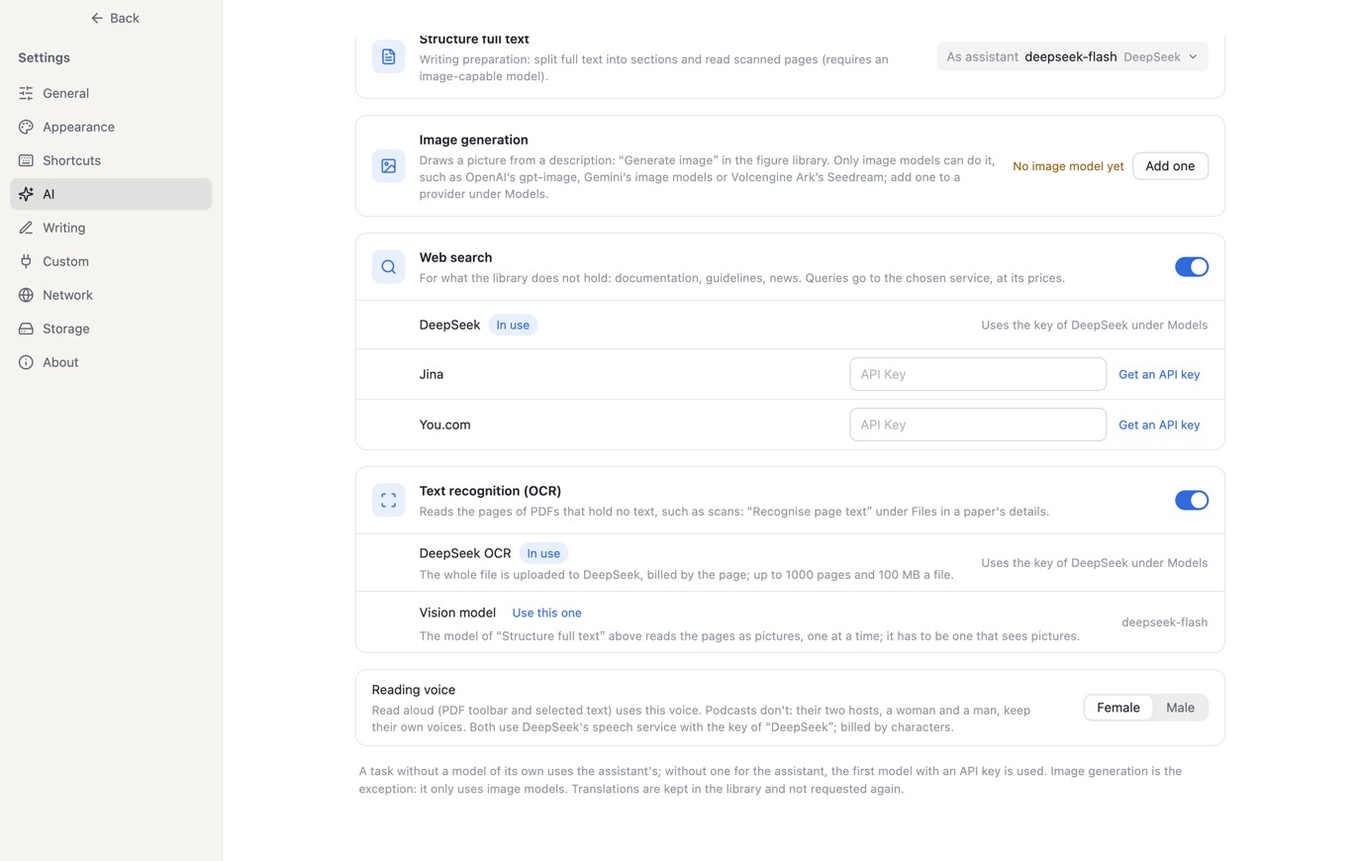
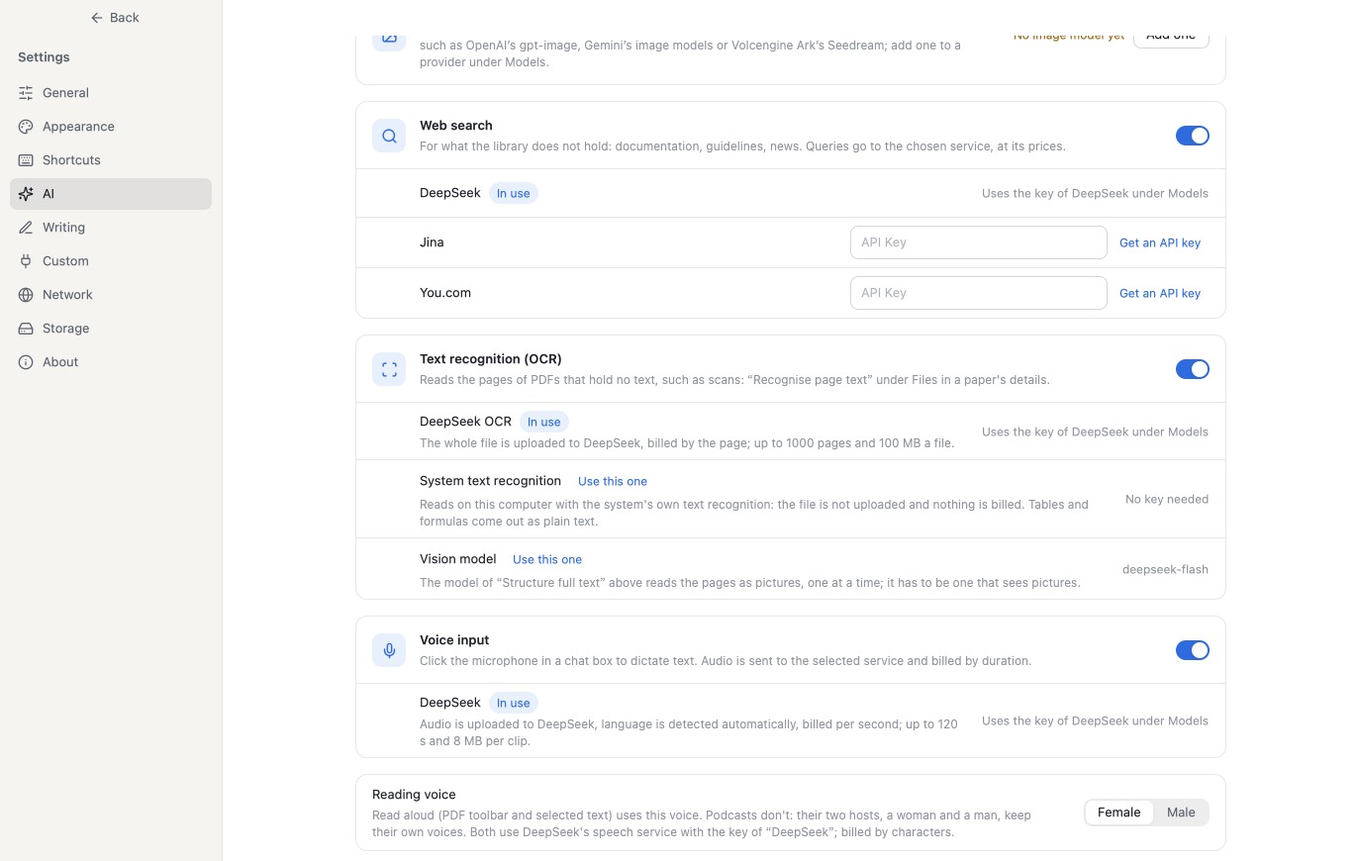
tutorials: what v0.22.0 brought
几个课题一起推进 gets §7 复制过去 and §8 追加还是覆盖, from a run on v0.22.0
with both libraries fetched anew from PubMed (four figures, Chinese and English).
搬进来 §8 describes 系统文字识别 and the order the engines are tried in, with
figure 15 retaken. 向整个文献库提问 §2 gets a tip on 思考强度 and 语音输入.

diff --git a/site/en/tutorials/libraries.html b/site/en/tutorials/libraries.html
@@ -38,11 +38,11 @@
   <header class="doc-head">
     <p class="kicker">Tutorial 18 · Follow up</p>
     <h1>Several topics at once: work in the background, ask across libraries</h1>
-    <p class="lead">You have more than one topic on the go: plant single-cell transcriptomics and root hair development, each with a library of its own. In this tutorial one library's assistant screens its papers in the background while you work in the other, and it is done when you come back. Then, on the home page, you ask the assistant a question that spans both libraries: it looks in both, every source of its answer says which library it comes from, and a click takes you to that paper in that library.</p>
+    <p class="lead">You have more than one topic on the go: plant single-cell transcriptomics and root hair development, each with a library of its own. In this tutorial one library's assistant screens its papers in the background while you work in the other, and it is done when you come back. Then, on the home page, you ask the assistant a question that spans both libraries: it looks in both, every source of its answer says which library it comes from, and a click takes you to that paper in that library. Last, you copy a paper both topics can use into the other library, and choose between appending and overwriting where that library already has the same paper.</p>
     <dl class="facts">
-      <div><dt>Scenario</dt><dd>“<span lang="zh-CN">植物单细胞转录组</span>” (plant single-cell transcriptomics) has 40 papers waiting to be screened, “<span lang="zh-CN">根毛发育</span>” (root hair development) 30 papers just brought in from PubMed; do the two meet anywhere on root hairs?</dd></div>
+      <div><dt>Scenario</dt><dd>“<span lang="zh-CN">植物单细胞转录组</span>” (plant single-cell transcriptomics) has 40 papers waiting to be screened, “<span lang="zh-CN">根毛发育</span>” (root hair development) 30 papers just brought in from PubMed; do the two meet anywhere on root hairs? A root atlas on the single-cell side would serve the root hair side too.</dd></div>
       <div><dt>Needs</dt><dd>Two libraries, and a model provider set up in “Settings › AI”.</dd></div>
-      <div><dt>Time</dt><dd>About 10 minutes, of which screening 40 papers took a little over a minute in the background.</dd></div>
+      <div><dt>Time</dt><dd>About 15 minutes, of which screening 40 papers took a little over a minute in the background.</dd></div>
     </dl>
   </header>
 
@@ -56,6 +56,8 @@
         <li><a href="#s4">Done: a line at the top of the window</a></li>
         <li><a href="#s5">Back home, ask both libraries</a></li>
         <li><a href="#s6">Sources that name their library</a></li>
+        <li><a href="#s7">One paper for both: copy it over</a></li>
+        <li><a href="#s8">Already there: append or overwrite</a></li>
         <li class="plain"><a href="#recap">Recap</a></li>
       </ol>
     </nav>
@@ -139,6 +141,51 @@
         <aside class="note warn"><b>Note</b>In a conversation of the home page, the other libraries are read-only: the assistant can list papers, search and read full texts and read marks, but not add tags, change a status or import papers; open that library to change it. The “Assistant” inside a library still keeps to that library.</aside>
       </section>
 
+      <section id="s7">
+        <h2><i>7</i>One paper for both: copy it over</h2>
+        <p>The answer in the last section said that “<span lang="zh-CN">根毛发育</span>” holds no single-cell study. That gap can be filled from the other library. “<span lang="zh-CN">植物单细胞转录组</span>” has a single-nucleus atlas of Tartary buckwheat roots (Hou et al., 2025, International journal of biological macromolecules), whose abstract says it maps the developmental trajectories of root hair and cortex cells. The single-cell topic still needs it, so it should not be moved; copy it, and both topics have it.</p>
+        <p>In “<span lang="zh-CN">植物单细胞转录组</span>”, type buckwheat into the search box above the list, and this paper is the only one left. Right-click it: in the last group of the menu, under “Move to library…”, is “Copy to library…” (it is also under the “⋯” at the end of the row of buttons on the details' “Info” tab).</p>
+
+        <figure class="shot">
+          <img src="../../img/en/t/libraries-08-copy-menu.jpg" width="1372" height="867" loading="lazy" alt="The library <span lang="zh-CN">植物单细胞转录组</span> with buckwheat in the search box; the list holds only Single - nucleus transcriptomics uncovers the spatiotemporal development of roots…, and its Info tab is open at the right. A context menu over its row: View information, Ask about paper; Favorites, Mark as Unread, Mark as Skimmed, Mark as Read closely; Edit title, information and fields…, Look up by DOI…, Add PDF or attachment…, Find open full text; Copy title, Copy DOI, Copy BibTeX, Open web page; and a last group of Move to library…, Copy to library… (under the pointer) and Move to trash.">
+          <figcaption><b>Figure 8.</b> A paper's context menu: “Copy to library…” comes under “Move to library…”.</figcaption>
+        </figure>
+
+        <p>The dialog is titled “Copy to library”. Under the paper's title are the libraries it can be copied to, here only “<span lang="zh-CN">根毛发育</span>” (30 papers), and a line saying that its PDFs, annotations, reading position and conversations about it are copied over, where its screening starts as pending, and that the paper here stays as it is. Click “Copy”.</p>
+
+        <figure class="shot">
+          <img src="../../img/en/t/libraries-09-copy-dialog.jpg" width="1372" height="867" loading="lazy" alt="The Copy to library dialog: the buckwheat paper's full title; a line saying its PDFs, annotations, reading position and conversations about it are copied over, where its screening starts as pending, and the paper here stays as it is; the row <span lang="zh-CN">根毛发育</span>, 30 papers, chosen; the buttons Cancel and Copy.">
+          <figcaption><b>Figure 9.</b> “Copy to library”: the paper here stays as it is, and the other library gets a copy.</figcaption>
+        </figure>
+
+        <p>The window does not move: it stays in “<span lang="zh-CN">植物单细胞转录组</span>”, the paper is still in the list, and the library still holds 40 papers. The top of the window says “Copied to “<span lang="zh-CN">根毛发育</span>”.”, with “Open” beside it to go and look. “<span lang="zh-CN">根毛发育</span>” now holds 31 papers, and the newcomer's screening is “Pending”: whether it belongs is judged again, for the root hair topic.</p>
+        <aside class="note"><b>Tip</b>After copying, the two are separate: an annotation added or a note changed on one side does not reach the other. When a paper belongs only to the new topic and the old library has no use for it, use “Move to library…”: the paper goes over with its PDFs and annotations, and the original stays in this library's trash. Since v0.22.0 the window stays where it is after a move too, so you can move the next paper right away.</aside>
+      </section>
+
+      <section id="s8">
+        <h2><i>8</i>Already there: append or overwrite</h2>
+        <p>Next you come across another paper about root hair cells: a multi-organ single-cell atlas of oak (Hui et al., 2026, PLoS genetics), in which QrIAA14 is enriched in root hair cells, the cells next to them and the root cap. Tag it and the buckwheat paper “<span lang="zh-CN">根毛</span>” (root hair), click that tag in the sidebar, and the list shows these two. Click the first, hold <kbd>⌘</kbd> (<kbd>Ctrl</kbd> on Windows) and click the second to select both; right-click, and the last group of the menu reads “Copy 2 papers to library…”.</p>
+        <p>Click it and choose “<span lang="zh-CN">根毛发育</span>”: a line in a warning colour appears in the dialog, saying that “<span lang="zh-CN">根毛发育</span>” already has 2 of them, with their titles. The buckwheat paper is the one copied in the last section; the oak paper was also fetched by “<span lang="zh-CN">根毛发育</span>”'s own search, so each library has a record of it. Two lines below say what each way does, and the buttons become “Cancel”, “Append” and “Overwrite”:</p>
+
+        <figure class="shot">
+          <img src="../../img/en/t/libraries-10-held.jpg" width="1372" height="867" loading="lazy" alt="The list of <span lang="zh-CN">植物单细胞转录组</span> narrowed to the tag <span lang="zh-CN">根毛</span>: two papers, both selected. The Copy to library dialog: “Multi-organ single-cell transcript…” (2 papers in all); a line saying their PDFs, annotations, reading positions and conversations are copied over, where their screening starts as pending, and the papers here stay as they are; the row <span lang="zh-CN">根毛发育</span>, 31 papers, chosen; a line in a warning colour saying <span lang="zh-CN">根毛发育</span> already has 2 of them, with their titles; two lines explaining Append and Overwrite; the buttons Cancel, Append and Overwrite, Overwrite being the main one.">
+          <figcaption><b>Figure 10.</b> The other library already has 2 of them: the dialog asks first whether to append or overwrite.</figcaption>
+        </figure>
+
+        <ul>
+          <li><strong>Append</strong>: everything already there stays; the tags, notes, PDFs and annotations from here are added, and empty details filled in.</li>
+          <li><strong>Overwrite</strong>: wherever both have something, this side wins, including the title and other details, notes, tags, reading state and annotations; what only that side has stays, and its screening is unchanged.</li>
+        </ul>
+        <p>Neither adds a paper to “<span lang="zh-CN">根毛发育</span>”. Here only the tag should go over, and nothing of the records there needs changing, so click “Append”. The default button is “Overwrite”, which <kbd>Enter</kbd> presses; appending takes a click. The top of the window says ““<span lang="zh-CN">根毛发育</span>” already had these 2 papers: their files and annotations were added to them.” Click “Open” beside it to go to “<span lang="zh-CN">根毛发育</span>”, and click “<span lang="zh-CN">根毛</span>” in the sidebar:</p>
+
+        <figure class="shot">
+          <img src="../../img/en/t/libraries-11-appended.jpg" width="1372" height="867" loading="lazy" alt="The library <span lang="zh-CN">根毛发育</span>, with Tags: <span lang="zh-CN">根毛</span> on the filter bar and two papers in the list: Multi-organ single-cell transcriptomic atlas identifi… (Hui, Wenkai et al. · PLoS genetics · #<span lang="zh-CN">根毛</span>) and Single - nucleus transcriptomics uncovers the spa… (Hou, Yukang et al. · #<span lang="zh-CN">根毛</span>), both Linked and Unread; the foot says Showing 2 / 31 papers. At the right, the buckwheat paper's Info tab: Unread, Pending, Linked, and #<span lang="zh-CN">根毛</span> under Tags.">
+          <figcaption><b>Figure 11.</b> After appending, both papers in “<span lang="zh-CN">根毛发育</span>” carry the tag, and their screening is still that library's own “Pending”.</figcaption>
+        </figure>
+
+        <p>The library still holds 31 papers; nothing was added. From here each library judges for itself whether to include them: a paper included for the single-cell topic may be left out for the root hair one.</p>
+      </section>
+
       <section id="recap" class="recap">
         <h2>Recap</h2>
         <ul>
@@ -146,6 +193,8 @@
           <li>The home page's card and the bottom of another library's sidebar say how far it is, and a click goes back; when it is done, the top of the window says so.</li>
           <li>A question across libraries is asked on the home page: click “Ask my libraries”, or just say “look in my libraries for …”.</li>
           <li>The source cards of the answer name each paper's library, and a click opens that paper there; the other libraries are read-only in that conversation.</li>
+          <li>A paper both topics can use: right-click, “Copy to library…”. The original stays as it is, the other library gets a copy whose screening starts at “Pending”, and from then on each side changes its own.</li>
+          <li>Where the other library already has the same paper, the dialog asks first: “Append” keeps what is there and adds what is here, “Overwrite” lets this side win wherever both have something; neither adds a paper.</li>
           <li>Next: write the screening suggestions in, see “Confirm the screening decisions” in <a href="start.html#s6">Start from a topic</a>.</li>
         </ul>
       </section>
@@ -170,7 +219,7 @@
       </ol>
     </div>
     <div class="colophon">
-      <p><b>About this tutorial.</b> The screenshots come from one real run in November 2026 on macOS with v0.19.0, with the English interface; the Chinese page shows a run of its own with the Chinese interface, whose numbers differ. Screening used GPT-6.1 Sol and the question Claude Sonnet 5.5, both through a local gateway; the 30 root hair papers were fetched from PubMed that day. A model judges and answers differently each time, so numbers and wording will differ when you follow along; the steps are the same.</p>
+      <p><b>About this tutorial.</b> The screenshots come from one real run in November 2026 on macOS with v0.19.0, with the English interface; the Chinese page shows a run of its own with the Chinese interface, whose numbers differ. Screening used GPT-6.1 Sol and the question Claude Sonnet 5.5, both through a local gateway; the 30 root hair papers were fetched from PubMed that day. Sections 7 and 8 come from another run, on November 28, 2026 with v0.22.0 and the English interface: both libraries were fetched anew from PubMed, 40 single-cell studies of plant roots and 30 root hair studies, so the lists differ from the earlier sections; no model was used in them. A model judges and answers differently each time, so numbers and wording will differ when you follow along; the steps are the same.</p>
       <p><b>The assistant can be wrong.</b> Its suggestions and answers need your confirmation; check key numbers and conclusions against the original.</p>
     </div>
   </div>

diff --git a/site/tutorials/libraries.html b/site/tutorials/libraries.html
@@ -38,11 +38,11 @@
   <header class="doc-head">
     <p class="kicker">教程 18　·　跟进</p>
     <h1>几个课题一起推进：后台运行与跨库提问</h1>
-    <p class="lead">手上不止一个课题：一个是植物单细胞转录组，一个是根毛发育，各有各的文献库。本篇让一个库的助手在后台逐篇筛选，你去另一个库做别的，回来时它已经做完；再回到首页问助手一个横跨两个库的问题，它到两个库里去查，回答的每条出处写明来自哪个库，点一下就到那个库里的那一篇。</p>
+    <p class="lead">手上不止一个课题：一个是植物单细胞转录组，一个是根毛发育，各有各的文献库。本篇让一个库的助手在后台逐篇筛选，你去另一个库做别的，回来时它已经做完；再回到首页问助手一个横跨两个库的问题，它到两个库里去查，回答的每条出处写明来自哪个库，点一下就到那个库里的那一篇。最后，把一篇两个课题都用得上的文献复制一份过去；那边已经有同一篇时，选追加还是覆盖。</p>
     <dl class="facts">
-      <div><dt>场景</dt><dd>「植物单细胞转录组」40 篇等着筛选，「根毛发育」30 篇刚从 PubMed 检索进来；想知道两边在根毛上有没有交集。</dd></div>
+      <div><dt>场景</dt><dd>「植物单细胞转录组」40 篇等着筛选，「根毛发育」30 篇刚从 PubMed 检索进来；想知道两边在根毛上有没有交集；单细胞那边的根图谱，根毛这边也想用。</dd></div>
       <div><dt>需要</dt><dd>两个文献库，一个在「设置 › AI」里配置好的模型服务。</dd></div>
-      <div><dt>用时</dt><dd>约 10 分钟，其中筛选 40 篇在后台用了一分多钟。</dd></div>
+      <div><dt>用时</dt><dd>约 15 分钟，其中筛选 40 篇在后台用了一分多钟。</dd></div>
     </dl>
   </header>
 
@@ -56,6 +56,8 @@
         <li><a href="#s4">做完了，窗口上方提示一句</a></li>
         <li><a href="#s5">回首页，问两个库</a></li>
         <li><a href="#s6">出处写明来自哪个库</a></li>
+        <li><a href="#s7">一篇两边都用得上：复制过去</a></li>
+        <li><a href="#s8">那边已经有了：追加还是覆盖</a></li>
         <li class="plain"><a href="#recap">回顾</a></li>
       </ol>
     </nav>
@@ -139,6 +141,51 @@
         <aside class="note warn"><b>注意</b>在首页的对话里，别的文献库是只读的：助手可以列文献、检索全文、读原文和标注，但不能加标签、改状态或导入文献；要改，请打开那个库再做。文献库里面的「助手」仍然只管自己这个库。</aside>
       </section>
 
+      <section id="s7">
+        <h2><i>7</i>一篇两边都用得上：复制过去</h2>
+        <p>上一节的回答说，「根毛发育」里没有单细胞研究。这一块可以从另一个库借。「植物单细胞转录组」里有一篇苦荞根的单细胞核图谱（Hou 等，2025，International journal of biological macromolecules），摘要说它画出了根毛和皮层细胞的发育轨迹。这篇在单细胞那边还要用，不能移走；复制一份过去，两个课题就都有它。</p>
+        <p>在「植物单细胞转录组」的列表上方搜索 buckwheat，列表里只剩这一篇。右键它，菜单的最后一组里，「移到文献库…」下面就是「复制到文献库…」（右边详情「信息」页那一行按钮末尾的「⋯」里也有）。</p>
+
+        <figure class="shot">
+          <img src="../img/t/libraries-08-copy-menu.jpg" width="1372" height="867" loading="lazy" alt="「植物单细胞转录组」文献库，搜索框里是 buckwheat，列表只剩 Single - nucleus transcriptomics uncovers the spatiotemporal development of roots… 一篇，右边是它的信息页。这一行上弹出右键菜单：查看信息、就这篇提问；收藏、标为未读、标为已浏览、标为已精读；编辑题目、信息与词条…、按 DOI 补全…、添加 PDF 或附件…、查找开放全文；复制题目、复制 DOI、复制 BibTeX、打开网页；最后一组是移到文献库…、复制到文献库…（指针停在这一项上）、移到回收站。">
+          <figcaption><b>图 8</b>　文献的右键菜单：「复制到文献库…」在「移到文献库…」下面。</figcaption>
+        </figure>
+
+        <p>对话框的标题是「复制到文献库」，下面是这篇的题目和可以复制去的文献库，这里只有「根毛发育」（30 篇）。说明写着：PDF、标注、读到的位置和关于它的对话都复制一份过去，在那边收录状态是待判断；这里的这条不变。点「复制过去」。</p>
+
+        <figure class="shot">
+          <img src="../img/t/libraries-09-copy-dialog.jpg" width="1372" height="867" loading="lazy" alt="「复制到文献库」对话框：苦荞那篇的完整题目；说明 PDF、标注、读到的位置和关于它的对话都复制一份过去，在那边收录状态是待判断，这里的这条不变；下面一行「根毛发育　30 篇」已选中；按钮是取消和复制过去。">
+          <figcaption><b>图 9</b>　「复制到文献库」：这里的这条不变，那边多一份。</figcaption>
+        </figure>
+
+        <p>窗口没有动，还停在「植物单细胞转录组」，这篇也还在列表里，库里仍是 40 篇。窗口上方提示「已复制到「根毛发育」。」，旁边的「打开」去那边看。「根毛发育」变成 31 篇，新来的这篇收录状态是「待判断」：收不收，要按根毛这个课题重新判断。</p>
+        <aside class="note"><b>提示</b>复制之后两边各是各的：在一边加的标注、改的笔记，不会同步到另一边。一篇文献只属于新课题、原来的库用不着了，就用「移到文献库…」：它连同 PDF 和标注搬过去，原来的条目留在本库的回收站里。从 v0.22.0 起，移完窗口也留在原处，好接着移下一篇。</aside>
+      </section>
+
+      <section id="s8">
+        <h2><i>8</i>那边已经有了：追加还是覆盖</h2>
+        <p>接着又翻到一篇讲根毛细胞的：栎树的多器官单细胞图谱（Hui 等，2026，PLoS genetics），其中 QrIAA14 富集在根毛、近根毛细胞和根冠里。给它和苦荞那篇都加上标签「根毛」，在侧栏点这个标签，列表里就是这两篇。点第一篇，按住 <kbd>⌘</kbd>（Windows 上是 <kbd>Ctrl</kbd>）点第二篇，两篇都选中；右键，菜单的最后一组变成「把 2 篇复制到文献库…」。</p>
+        <p>点它，选「根毛发育」，对话框里多出一段提醒色的字：「「根毛发育」里已有其中 2 篇」，后面是两篇的题目。苦荞那篇是上一节刚复制过去的；栎树那篇是「根毛发育」自己的检索式也取回了的，两个库各有一条。下面两行说明两种处理，按钮变成「取消」「追加」「覆盖」：</p>
+
+        <figure class="shot">
+          <img src="../img/t/libraries-10-held.jpg" width="1372" height="867" loading="lazy" alt="「植物单细胞转录组」的列表按标签「根毛」筛出两篇，都已选中。「复制到文献库」对话框：「Multi-organ single-cell transcript…」等 2 篇文献；说明 PDF、标注、读到的位置和各自的对话都复制一份过去，在那边收录状态是待判断，这里的条目不变；「根毛发育　31 篇」已选中；提醒色的一行：「根毛发育」里已有其中 2 篇，后面是两篇的题目；下面两行分别说明追加和覆盖；按钮是取消、追加和覆盖，覆盖是主按钮。">
+          <figcaption><b>图 10</b>　那边已有其中 2 篇：对话框先问追加还是覆盖。</figcaption>
+        </figure>
+
+        <ul>
+          <li><strong>追加</strong>：那边已有的都保留，这边的标签、笔记、PDF 和标注加上去，空着的信息补上。</li>
+          <li><strong>覆盖</strong>：两边都有的以这边为准，包括题目等信息、笔记、标签、阅读状态和标注；那边独有的保留，收录状态不变。</li>
+        </ul>
+        <p>两种都不会在「根毛发育」里多出一条。这里只想把标签带过去，那边的记录没有要改的，点「追加」。默认按钮是「覆盖」，按 <kbd>Enter</kbd> 就是它，要追加得点一下。窗口上方提示「「根毛发育」里已有这 2 篇：文件和标注并到了原有的条目上。」点旁边的「打开」去「根毛发育」，在侧栏点「根毛」：</p>
+
+        <figure class="shot">
+          <img src="../img/t/libraries-11-appended.jpg" width="1372" height="867" loading="lazy" alt="「根毛发育」文献库，筛选条上是「标签：根毛」，列表两篇：Multi-organ single-cell transcriptomic atlas identifies…（Hui, Wenkai 等 · PLoS genetics · #根毛）和 Single - nucleus transcriptomics uncovers the spatio…（Hou, Yukang 等 · #根毛），都是有链接、未读；底部写着显示 2 / 31 篇。右边是苦荞那篇的信息页：未读、待判断、有链接，标签一栏是 #根毛。">
+          <figcaption><b>图 11</b>　追加之后：两篇在「根毛发育」里都带上了「根毛」，收录状态还是那边的「待判断」。</figcaption>
+        </figure>
+
+        <p>库里仍是 31 篇，没有多出一条。以后两边各自判断收不收：一篇在单细胞课题里收录，在根毛课题里可以不收。</p>
+      </section>
+
       <section id="recap" class="recap">
         <h2>回顾</h2>
         <ul>
@@ -146,6 +193,8 @@
           <li>首页的卡片和别的库侧栏底部都写着它做到哪了，点一下回到那个库；做完时窗口上方提示一句。</li>
           <li>跨库的问题回首页问：点「问我的文献库」，或直接说「在我的文献库里找……」。</li>
           <li>回答的出处卡片写明来自哪个库，点一下打开那个库里的那一篇；别的库在这里只读。</li>
+          <li>一篇两个课题都用得上，右键「复制到文献库…」：原来的不动，那边多一份，收录状态从「待判断」开始；之后两边各改各的。</li>
+          <li>那边已经有同一篇时，对话框先问：「追加」保留那边的、把这边的加上去，「覆盖」两边都有的以这边为准；都不会多出一条。</li>
           <li>下一步：把筛选的建议写入，见<a href="start.html#s6">从一个课题开始</a>的「确认收录判断」。</li>
         </ul>
       </section>
@@ -170,7 +219,7 @@
       </ol>
     </div>
     <div class="colophon">
-      <p><b>关于这篇教程</b>　截图来自 2026 年 11 月在 macOS 上用 v0.19.0 的一次实际操作。筛选用的是 GPT-6.1 Sol，提问用的是 Claude Sonnet 5.5，都经本机的网关调用；「根毛发育」的 30 篇是当天从 PubMed 检索的。模型每次的判断和回答不一样，你照做时数字和措辞会有出入，步骤是一样的。</p>
+      <p><b>关于这篇教程</b>　截图来自 2026 年 11 月在 macOS 上用 v0.19.0 的一次实际操作。筛选用的是 GPT-6.1 Sol，提问用的是 Claude Sonnet 5.5，都经本机的网关调用；「根毛发育」的 30 篇是当天从 PubMed 检索的。第 7、8 节是 2026 年 11 月 28 日在 v0.22.0 上的另一次操作：两个库重新从 PubMed 检索，「植物单细胞转录组」是 40 篇植物根的单细胞研究，「根毛发育」是 30 篇根毛研究，所以列表和前面几节的不同；这两节没有用到模型。模型每次的判断和回答不一样，你照做时数字和措辞会有出入，步骤是一样的。</p>
       <p><b>助手可能出错</b>　它的建议和回答都要你确认；关键的数字和结论请对照原文。</p>
     </div>
   </div>

diff --git a/site/en/tutorials/migrate.html b/site/en/tutorials/migrate.html
@@ -41,7 +41,7 @@
     <p class="lead">The worst part of switching tools is that everything is scattered. Some of it is in Zotero, some is PDFs you saved over the years, and some is a .bib from your advisor and a few DOIs noted in a report. This tutorial moves all of it into one library, keeps one copy of each duplicate, completes the records that were not recognized and finds the missing full texts. Last, it shrinks a 90 MB PDF, gets the text out of a scan and files a supplement that took a row of its own under its paper.</p>
     <dl class="facts">
       <div><dt>Scenario</dt><dd>The project has been running for a while. The papers are spread over Zotero, a PDF folder with subfolders by species, a .bib and a few DOIs.</dd></div>
-      <div><dt>Needs</dt><dd>A library (it can be empty) and a computer that is online. No model is needed: apart from the text recognition in step 8 (DeepSeek OCR or a vision model), no step here goes through a model provider.</dd></div>
+      <div><dt>Needs</dt><dd>A library (it can be empty) and a computer that is online. No model is needed: apart from the text recognition in step 8 (DeepSeek OCR in this example; with the system's own text recognition that step goes through no service either), no step here goes through a model provider.</dd></div>
       <div><dt>Time</dt><dd>About 15 minutes, of which a few minutes are waiting for database lookups and full-text downloads.</dd></div>
     </dl>
   </header>
@@ -236,15 +236,16 @@
         <p>“Recognise page text” is text recognition (OCR): it reads the words off the pages. Which engine does it is chosen on the “Text recognition (OCR)” card in “Settings › AI › Tasks” (before v0.20.0 it was under “Settings › Network”): the switch at the right of its title says whether pages are recognised at all, and under it is one row per engine.</p>
 
         <figure class="shot">
-          <img src="../../img/en/t/migrate-15-ocr-tasks.jpg" width="1372" height="870" loading="lazy" alt="The Tasks page of Settings › AI, lower half: a “Text recognition (OCR)” card with its switch on at the right of the title, and under it two rows: DeepSeek OCR, marked In use, saying the whole file is uploaded to DeepSeek, billed by the page, up to 1000 pages and 100 MB a file, with “Uses the key of DeepSeek under Models” at the right; Vision model, with “Use this one” beside it, saying the model of “Structure full text” above reads the pages as pictures, one at a time, with deepseek-flash at the right.">
-          <figcaption><b>Figure 15.</b> “Text recognition (OCR)” in “Settings › AI › Tasks”: one row per engine; the one in use is marked “In use”, and the other has “Use this one”.</figcaption>
+          <img src="../../img/en/t/migrate-15-ocr-tasks.jpg" width="1372" height="870" loading="lazy" alt="The Tasks page of Settings › AI, lower half: the Web search card at the top; a “Text recognition (OCR)” card with its switch on at the right of the title, and under it three rows: DeepSeek OCR, marked In use, saying the whole file is uploaded to DeepSeek, billed by the page, up to 1000 pages and 100 MB a file, with “Uses the key of DeepSeek under Models” at the right; System text recognition, with “Use this one” beside it, saying it reads on this computer with the system's own text recognition, the file is not uploaded and nothing is billed, tables and formulas come out as plain text, with “No key needed” at the right; Vision model, also with “Use this one”, saying the model of “Structure full text” above reads the pages as pictures, one at a time, with deepseek-flash at the right. Below are the Voice input and Reading voice cards.">
+          <figcaption><b>Figure 15.</b> “Text recognition (OCR)” in “Settings › AI › Tasks”: one row per engine; the one in use is marked “In use”, and the others have “Use this one”.</figcaption>
         </figure>
 
         <ul>
           <li><strong>DeepSeek OCR</strong> uploads the whole file to DeepSeek, at most 1000 pages and 100 MB a file, billed by the page. Its key is the one of the DeepSeek service in “Settings › AI › Models”, or <code>DEEPSEEK_API_KEY</code>.</li>
+          <li><strong>System text recognition</strong> (since v0.22.0) reads on this computer with the text recognition macOS or Windows comes with: the file is not uploaded, and it needs no key and costs nothing. Pages in columns are read a column at a time; tables and formulas come out as plain text. Which languages Windows reads depends on the languages that have “Optical character recognition” installed in the system's settings; Linux has no such engine.</li>
           <li><strong>Vision model</strong> is the model of the “Structure full text” task higher up the same page. It draws the pages as pictures and reads them one at a time, so it has to be a model that sees pictures.</li>
         </ul>
-        <p>This example has a DeepSeek key, so the DeepSeek OCR row is marked “In use”. Back at the paper, click “Recognise page text”. The file's row shows a spinner and “Recognising page text…”, and about half a minute later the 35 pages were done:</p>
+        <p>Until you pick one with “Use this one”, DeepSeek OCR comes first; without its key, system text recognition, so pages can be read with nothing set up at all; the vision model only where the system has no recognition of its own. This example has a DeepSeek key, so the DeepSeek OCR row is marked “In use”. Back at the paper, click “Recognise page text”. The file's row shows a spinner and “Recognising page text…”, and about half a minute later the 35 pages were done:</p>
 
         <figure class="shot">
           <img src="../../img/en/t/migrate-16-ocr-done.jpg" width="1372" height="867" loading="lazy" alt="The same paper's details, its status now PDF saved. Under “Main text PDF” the row of Qin_2026_scan.pdf reads Body · 8.2 MB · 27 of 35 pages contain text for chat (read by DeepSeek OCR). In the list the row's title is still Qin_2026_scan, with authors and year missing.">
@@ -252,7 +253,7 @@
         </figure>
 
         <p>The recognised text is stored page by page, and from now on asking questions, searching the full text and writing can use it. This time DeepSeek OCR returned no text for 8 pages, the first page among them. In the run for the Chinese version of this page, on the same file, only one page came back empty, a page that is all table: the service does not answer the same way every time. The title is still the file name; now that the file has text, you can “Look up by title” as in step 5.</p>
-        <aside class="note warn"><b>Note</b>DeepSeek OCR sends the file out and charges by the page. On the command line the same thing is <code>wisp ocr_pdf</code>, and the assistant in the window can do it too, asking you first. The vision model works only in the window and reads at most 40 pages at a time; click again to go on with the rest.</aside>
+        <aside class="note warn"><b>Note</b>DeepSeek OCR sends the file out and charges by the page; to keep the file here, click “Use this one” on the system text recognition row. On the command line the same thing is <code>wisp ocr_pdf</code>, and the assistant in the window can do it too, asking you first. The vision model works only in the window and reads at most 40 pages at a time; click again to go on with the rest.</aside>
       </section>
 
       <section id="s9">
@@ -326,7 +327,7 @@
       </ol>
     </div>
     <div class="colophon">
-      <p><b>About this tutorial.</b> Most screenshots were retaken in November 2026 on macOS with v0.18.0, with the English interface; Figures 2 and 3 still show the Chinese interface and the earlier run (Figure 2 comes from a small database made for the demo). Figures 4, 5 and 12–16 come from another run with v0.18.0, also with the English interface, on a library of 40 papers: the Zotero database was made for the demo (its items are real papers), the scan was made by drawing a preprint page by page into pictures, and text recognition used DeepSeek OCR (straight to DeepSeek, not through a model provider). Figures 17–20 come from a run on November 24, 2026 with v0.19.0, with the English interface, on the same library of 40 papers (renamed “Plant single-cell transcriptomics” for the English run); no model was used. The numbers in the text come from those runs and will differ with your own papers, but the steps are the same. The text uses the labels of the English interface (Settings › General › Interface language). Figure 15 shows “Settings › AI › Tasks” of v0.20.0, where text recognition has been since that version.</p>
+      <p><b>About this tutorial.</b> Most screenshots were retaken in November 2026 on macOS with v0.18.0, with the English interface; Figures 2 and 3 still show the Chinese interface and the earlier run (Figure 2 comes from a small database made for the demo). Figures 4, 5 and 12–16 come from another run with v0.18.0, also with the English interface, on a library of 40 papers: the Zotero database was made for the demo (its items are real papers), the scan was made by drawing a preprint page by page into pictures, and text recognition used DeepSeek OCR (straight to DeepSeek, not through a model provider). Figures 17–20 come from a run on November 24, 2026 with v0.19.0, with the English interface, on the same library of 40 papers (renamed “Plant single-cell transcriptomics” for the English run); no model was used. The numbers in the text come from those runs and will differ with your own papers, but the steps are the same. The text uses the labels of the English interface (Settings › General › Interface language). Figure 15 shows “Settings › AI › Tasks” of v0.22.0: text recognition has been there since v0.20.0, and system text recognition came with v0.22.0.</p>
       <p><b>The assistant can be wrong.</b> Its suggestions and answers need your confirmation. Check key numbers and conclusions against the original text.</p>
     </div>
   </div>

diff --git a/site/tutorials/migrate.html b/site/tutorials/migrate.html
@@ -41,7 +41,7 @@
     <p class="lead">换工具时最怕的是东西散在几处：一部分在 Zotero 里，一部分是这几年随手存下的 PDF，还有导师发来的 .bib 和报告上记下的几个 DOI。这一篇把它们搬进同一个文献库，重复的只留一份，再把没认出来的题录补齐，把缺的全文找回来；最后把一个 90 MB 的 PDF 压小，让一份扫描件读出文字，再把单独占了一行的补充材料归到它的文章名下。</p>
     <dl class="facts">
       <div><dt>场景</dt><dd>课题已经做了一阵，文献散在 Zotero、一个按物种分了子文件夹的 PDF 文件夹、一份 .bib 和几个 DOI 里。</dd></div>
-      <div><dt>需要</dt><dd>一个文献库（可以是空的）和能上网的电脑。不需要模型：除了第 8 步的文字识别（DeepSeek OCR 或一个看图模型），每一步都不经过模型服务。</dd></div>
+      <div><dt>需要</dt><dd>一个文献库（可以是空的）和能上网的电脑。不需要模型：除了第 8 步的文字识别（本例用 DeepSeek OCR；用系统自带的文字识别时，这一步也不经过任何服务），每一步都不经过模型服务。</dd></div>
       <div><dt>用时</dt><dd>约 15 分钟，其中查询数据库和下载全文要等几分钟。</dd></div>
     </dl>
   </header>
@@ -236,15 +236,16 @@
         <p>「识别页面文字」就是文字识别（OCR），把页面上的字认出来。用哪个引擎，在「设置 › AI › 任务」的「文字识别」卡片里选（v0.20.0 之前它在「设置 › 网络」里）：标题右边的开关管能不能识别，下面每个引擎一行。</p>
 
         <figure class="shot">
-          <img src="../img/t/migrate-15-ocr-tasks.jpg" width="1372" height="870" loading="lazy" alt="设置 › AI 的「任务」页，下半页：「文字识别」一张卡片，标题右边是开关（开着），下面两行：DeepSeek OCR 标着使用中，写着整个文件上传给 DeepSeek，按页计费，每个文件最多 1000 页、100 MB，右边是用「模型」里 DeepSeek 的 Key；看图模型旁边是「改用它」，写着上面「整理全文」的模型把页面当图片一页一页地读，右边是 deepseek-flash。">
-          <figcaption><b>图 15</b>　「设置 › AI › 任务」里的「文字识别」：每个引擎一行，正在用的标着「使用中」，另一个可以「改用它」。</figcaption>
+          <img src="../img/t/migrate-15-ocr-tasks.jpg" width="1372" height="870" loading="lazy" alt="设置 › AI 的「任务」页，下半页：上面是生图和网页搜索两张卡片；「文字识别」一张卡片，标题右边是开关（开着），下面三行：DeepSeek OCR 标着使用中，写着整个文件上传给 DeepSeek，按页计费，每个文件最多 1000 页、100 MB，右边是用「模型」里 DeepSeek 的 Key；系统文字识别旁边是「改用它」，写着用系统自带的文字识别在这台电脑上读，文件不上传，不计费，表格和公式读成普通文字，右边是不需要 Key；看图模型旁边也是「改用它」，写着上面「整理全文」的模型把页面当图片一页一页地读，右边是 deepseek-flash。再往下是语音输入和朗读的声音两张卡片。">
+          <figcaption><b>图 15</b>　「设置 › AI › 任务」里的「文字识别」：每个引擎一行，正在用的标着「使用中」，别的可以「改用它」。</figcaption>
         </figure>
 
         <ul>
           <li><strong>DeepSeek OCR</strong>：把整个文件上传到 DeepSeek 识别，每个文件最多 1000 页、100 MB，按页计费。Key 用的是「设置 › AI › 模型」里 DeepSeek 服务的那一个，或环境变量 <code>DEEPSEEK_API_KEY</code>。</li>
+          <li><strong>系统文字识别</strong>（v0.22.0 起）：用 macOS 或 Windows 自带的文字识别，在这台电脑上读，文件不上传，不用 Key，不计费。分栏的页面一栏一栏地读，表格和公式读成普通文字。Windows 上认哪些语言，看系统里给哪些语言装了「光学字符识别」；Linux 上没有这一项。</li>
           <li><strong>看图模型</strong>：同一页上面「整理全文」这项任务的模型，把页面画成图片，一页一页地读，要用能看图的模型。</li>
         </ul>
-        <p>本例有 DeepSeek 的 Key，DeepSeek OCR 那一行标着「使用中」。回到那篇文献，点「识别页面文字」：文件那一行转起圈，写着「正在识别页面文字…」，35 页不到半分钟就识别完了：</p>
+        <p>没有点过「改用它」时，先用 DeepSeek OCR；没有它的 Key，就用系统文字识别，所以什么都不配也能读；系统没有自带的识别时，才用看图模型。本例有 DeepSeek 的 Key，DeepSeek OCR 那一行标着「使用中」。回到那篇文献，点「识别页面文字」：文件那一行转起圈，写着「正在识别页面文字…」，35 页不到半分钟就识别完了：</p>
 
         <figure class="shot">
           <img src="../img/t/migrate-16-ocr-done.jpg" width="1372" height="867" loading="lazy" alt="同一篇文献的详情，状态成了已存 PDF；「正文 PDF」里 Qin_2026_scan.pdf 一行写着正文 · 8.2 MB · 35 页中 34 页有文字，可用于提问（由 DeepSeek OCR 读出）。列表里这一行的题目仍是 Qin_2026_scan，作者、年份待补。">
@@ -252,7 +253,7 @@
         </figure>
 
         <p>认出的文字按页存下来，之后提问、检索全文和写作都用得上。没有文字的那一页是第 17 页，一整页的表格，这一次 DeepSeek OCR 没有给它返回文字。同一个文件，为英文版页面再识别一次时，有 8 页没有返回文字，第 1 页也在其中：这项服务每次的结果不完全一样。题目还是文件名：现在文件有了文字，可以照第 5 步「按题目补全」。</p>
-        <aside class="note warn"><b>注意</b>DeepSeek OCR 要把文件传出去，还按页收费。命令行里同一件事是 <code>wisp ocr_pdf</code>，窗口里的助手也能做，用之前会先问你；看图模型只在窗口里能用，一次最多读 40 页，剩下的再点一次接着读。</aside>
+        <aside class="note warn"><b>注意</b>DeepSeek OCR 要把文件传出去，还按页收费；不想上传，就在系统文字识别那一行点「改用它」。命令行里同一件事是 <code>wisp ocr_pdf</code>，窗口里的助手也能做，用之前会先问你；看图模型只在窗口里能用，一次最多读 40 页，剩下的再点一次接着读。</aside>
       </section>
 
       <section id="s9">
@@ -326,7 +327,7 @@
       </ol>
     </div>
     <div class="colophon">
-      <p><b>关于这篇教程</b>　截图和数字来自 2026 年 11 月在 macOS 上用 v0.10.0 的一次实际操作；图 2 是 v0.17.0 上的操作。图 4、图 5 和图 12–16 是 2026 年 11 月 23 日在 v0.18.0 上的另一次操作：库里原有 40 篇文献，Zotero 数据库是为演示做的（条目是真实的论文），扫描件是把一份预印本逐页画成图片做成的，文字识别用的是 DeepSeek OCR（直接连 DeepSeek，没有经过模型服务）。图 17–20 是 2026 年 11 月 24 日在 v0.19.0 上的操作，用的是同样 40 篇的文献库，没有用到模型。模型每次的回答不一样，你照做时措辞和数字会有出入，步骤是一样的。图 15 是 v0.20.0 的「设置 › AI › 任务」：文字识别从这一版起在那里。</p>
+      <p><b>关于这篇教程</b>　截图和数字来自 2026 年 11 月在 macOS 上用 v0.10.0 的一次实际操作；图 2 是 v0.17.0 上的操作。图 4、图 5 和图 12–16 是 2026 年 11 月 23 日在 v0.18.0 上的另一次操作：库里原有 40 篇文献，Zotero 数据库是为演示做的（条目是真实的论文），扫描件是把一份预印本逐页画成图片做成的，文字识别用的是 DeepSeek OCR（直接连 DeepSeek，没有经过模型服务）。图 17–20 是 2026 年 11 月 24 日在 v0.19.0 上的操作，用的是同样 40 篇的文献库，没有用到模型。模型每次的回答不一样，你照做时措辞和数字会有出入，步骤是一样的。图 15 是 v0.22.0 的「设置 › AI › 任务」：文字识别从 v0.20.0 起在那里，系统文字识别是 v0.22.0 加的。</p>
       <p><b>助手可能出错</b>　它的建议和回答都要你确认；关键的数字和结论请对照原文。</p>
     </div>
   </div>

diff --git a/site/en/tutorials/index.html b/site/en/tutorials/index.html
@@ -45,7 +45,7 @@
     <dl class="facts">
       <div><dt>Which to read first</dt><dd>No papers yet: start with 01. Only an idea or a manuscript, and no clear topic: start with 02. Papers already in Zotero or in a folder: start with 03. Just one PDF that you want to read first: see 04. After that, the tutorials do not depend on each other.</dd></div>
       <div><dt>Which need a model</dt><dd>All except 03 and 04 use the assistant (11 only in the last step), so first set up a model provider of your own in “Settings › AI”. The first step of 01 explains how. The voices in 08 also need a DeepSeek API key, and so do text recognition in 03 and web search in 10.</dd></div>
-      <div><dt>Version</dt><dd>Written for v0.10.0 to v0.19.0, run on macOS. On Windows, read Ctrl for ⌘; everything else is the same.</dd></div>
+      <div><dt>Version</dt><dd>Written for v0.10.0 to v0.22.0, run on macOS. On Windows, read Ctrl for ⌘; everything else is the same.</dd></div>
     </dl>
   </header>
 
@@ -217,9 +217,9 @@
           <span class="num">18</span>
           <div>
             <h3>Several topics at once: work in the background, ask across libraries</h3>
-            <p>Two topics, two libraries: one library has the assistant screen in the background while you work in the other, and the window says when it is done; then ask the home page a question across both, with sources that name their library.</p>
+            <p>Two topics, two libraries: one library has the assistant screen in the background while you work in the other, and the window says when it is done; then ask the home page a question across both, with sources that name their library; and copy a paper both can use from one to the other.</p>
           </div>
-          <dl><div><dt>Needs</dt><dd>Two libraries, a model provider</dd></div><div><dt>Time</dt><dd>About 10 minutes</dd></div></dl>
+          <dl><div><dt>Needs</dt><dd>Two libraries, a model provider</dd></div><div><dt>Time</dt><dd>About 15 minutes</dd></div></dl>
         </a>
       </div>
     </section>

diff --git a/site/tutorials/index.html b/site/tutorials/index.html
@@ -45,7 +45,7 @@
     <dl class="facts">
       <div><dt>先读哪一篇</dt><dd>手里没有文献，从 01 开始；还说不清课题、只有一个想法或一份稿件，从 02 开始；文献已经在 Zotero 或一个文件夹里，从 03 开始；手里只有一个 PDF、只想先读，看 04。之后各篇互不依赖。</dd></div>
       <div><dt>需要模型的</dt><dd>除了 03 和 04，其余各篇都用到助手（11 只在最后一步），要先在「设置 › AI」里配置一个你自己的模型服务，01 的第一步讲怎么配。08 的声音另外需要 DeepSeek 的 API Key；03 的文字识别和 10 的网页搜索用的也是它。</dd></div>
-      <div><dt>版本</dt><dd>按 v0.10.0 到 v0.19.0 写成，macOS 上操作；Windows 上把 ⌘ 换成 Ctrl，其余相同。</dd></div>
+      <div><dt>版本</dt><dd>按 v0.10.0 到 v0.22.0 写成，macOS 上操作；Windows 上把 ⌘ 换成 Ctrl，其余相同。</dd></div>
     </dl>
   </header>
 
@@ -217,9 +217,9 @@
           <span class="num">18</span>
           <div>
             <h3>几个课题一起推进：后台运行与跨库提问</h3>
-            <p>两个课题、两个文献库：一个库让助手在后台筛选，你去另一个库做别的，做完窗口上方提示一句；再在首页问一个横跨两个库的问题，出处写明来自哪个库。</p>
+            <p>两个课题、两个文献库：一个库让助手在后台筛选，你去另一个库做别的，做完窗口上方提示一句；再在首页问一个横跨两个库的问题，出处写明来自哪个库；两边都用得上的一篇，复制一份过去。</p>
           </div>
-          <dl><div><dt>需要</dt><dd>两个文献库，一个模型服务</dd></div><div><dt>用时</dt><dd>约 10 分钟</dd></div></dl>
+          <dl><div><dt>需要</dt><dd>两个文献库，一个模型服务</dd></div><div><dt>用时</dt><dd>约 15 分钟</dd></div></dl>
         </a>
       </div>
     </section>

diff --git a/site/en/tutorials/ask.html b/site/en/tutorials/ask.html
@@ -82,6 +82,7 @@
         <h2><i>2</i>Ask, and see what it read</h2>
         <p>Write the question in the question box and press <kbd>Enter</kbd> to send it (<kbd>Shift</kbd> + <kbd>Enter</kbd> for a new line):</p>
         <blockquote><cite>Ask</cite><p>What do the papers report about protoplast isolation and about how many cells or nuclei were sequenced? Please quote page numbers and original sentences from the full text.</p></blockquote>
+        <aside class="note"><b>Tip</b>Under the question box, right of the model's name, is “Thinking · Default”: click it to pick another thinking effort for this conversation alone (Off, Low, Medium, High, Extra high, Maximum), higher for a hard question, lower for a simple one that should come back sooner. Where a new conversation starts is set by “Default thinking effort” under “Settings › AI › Tasks › Assistant” (since v0.22.0). With a DeepSeek key, the question box also has a microphone at its right: click it and speak, click again to stop, and what you said lands in the box as text, to correct before sending. The recording is uploaded to DeepSeek to be recognised, billed by the second.</aside>
         <p>After you send it, the scope line changes to “Provided records for 90 papers, 37 relevant full-text pages”. When there are too many papers to fit, the rest get only their titles and this line says so. Here all 90 papers were given as full records. Click “Papers” again and the panel now lists the materials handed to the model this time: each paper has a number P1, P2 and so on, then “Full record” or, for some, “Full record · 4 full-text pages”, and whether the paper has a full text.</p>
 
         <figure class="shot">

diff --git a/site/tutorials/ask.html b/site/tutorials/ask.html
@@ -82,6 +82,7 @@
         <h2><i>2</i>提问，看它读了什么</h2>
         <p>在提问框里写下问题，按 <kbd>Enter</kbd> 发送（<kbd>Shift</kbd> + <kbd>Enter</kbd> 换行）：</p>
         <blockquote><cite>提问</cite><p>这个文献库里的研究覆盖了哪些物种和器官？原生质体（scRNA-seq）和细胞核（snRNA-seq）两条路线各要付出什么代价？文献之间有哪些说法不一致？请尽量引用全文的页码和原句。</p></blockquote>
+        <aside class="note"><b>提示</b>提问框下面、模型名的右边是「思考 · 默认」：点开可以只为这段对话换一档思考强度（关闭、低、中、高、极高、最高），难的问题调高，简单的调低、回答得快些；新对话从哪一档开始，在「设置 › AI › 任务 › 助手」的「默认思考强度」里定（v0.22.0 起）。有 DeepSeek 的 Key 时，提问框右侧还有一个麦克风：点一下开始说话，再点一下结束，说的话转成文字放进框里，改好了再发。录音上传给 DeepSeek 识别，按秒计费。</aside>
         <p>发送后，范围那一行换成「已提供 28 篇文献的记录，40 页相关全文」。文献多的时候放不下的只给题目，这一行会写「N 篇仅题目」；这个库不大，28 篇都给了完整记录。再点「文献」，面板改为列出这次交给模型的材料：每篇有一个编号 P1、P2……，后面写着「完整记录」或「完整记录 · 5 页全文」，以及这篇有没有全文。</p>
 
         <figure class="shot">
